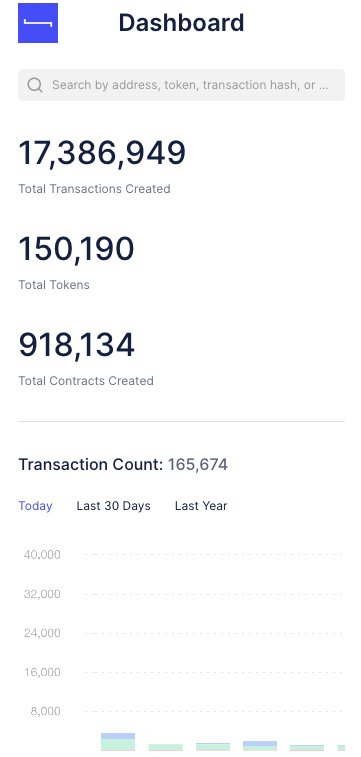
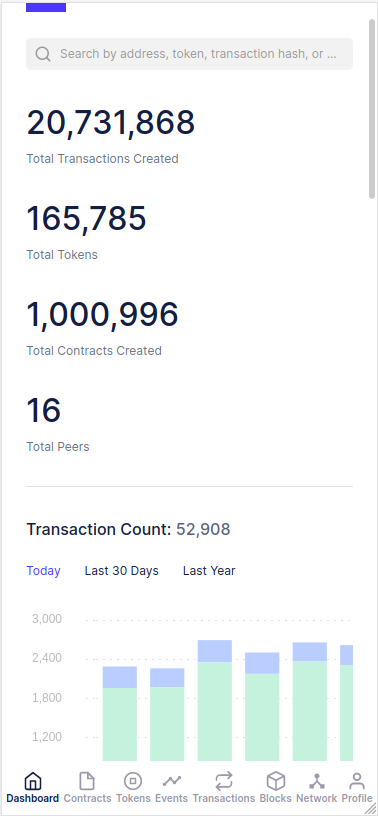
Deployed 4bf4646 with MkDocs version: 1.0.4

Changed region(s): [[0.0305, 0.0, 0.8532, 0.5773], [0.0, 0.0, 1.0, 1.0], [0.0609, 0.6077, 0.6399, 0.9419]]

diff --git a/features/index.html b/features/index.html
@@ -355,6 +355,13 @@
   
 </li>
       
+        <li class="md-nav__item">
+  <a href="#peers" title="Peers" class="md-nav__link">
+    Peers
+  </a>
+  
+</li>
+      
       
       
       
@@ -514,6 +521,13 @@
   
 </li>
       
+        <li class="md-nav__item">
+  <a href="#peers" title="Peers" class="md-nav__link">
+    Peers
+  </a>
+  
+</li>
+      
       
       
       
@@ -538,7 +552,7 @@
 <h2 id="dashboard">Dashboard<a class="headerlink" href="#dashboard" title="Permanent link">&para;</a></h2>
 <p>The Epirus dashboard provides a summary of key metrics of the blockchain contracts, including:</p>
 <ul>
-<li>Total transctions and token contracts</li>
+<li>Total transctions, token contracts and peers</li>
 <li>Graphical transaction count broken down by transaction type (contract creation, contract transaction, currency transfer)</li>
 <li>Most active contracts</li>
 <li>Fungible (ERC20) versus non-fungible token contracts (ERC721)</li>
@@ -596,6 +610,9 @@ sorted by transaction date, transaction count or event contracts by transaction 
 <p>The filters provided also allow you to view subsets of the available data, such as only 
 displaying contract creation transactions or fungible tokens in the Tokens view.</p>
 <p><img alt="Filter by token type" src="../img/filtering_tokens.png" /></p>
+<h2 id="peers">Peers<a class="headerlink" href="#peers" title="Permanent link">&para;</a></h2>
+<p>The peers view provides insights into the peers that your node is connected to. This is usefull if you want to check that you are successfully to a wider network.</p>
+<p><img alt="Peers dasboard" src="../img/peers.png" /></p>
                 
                   
                 
